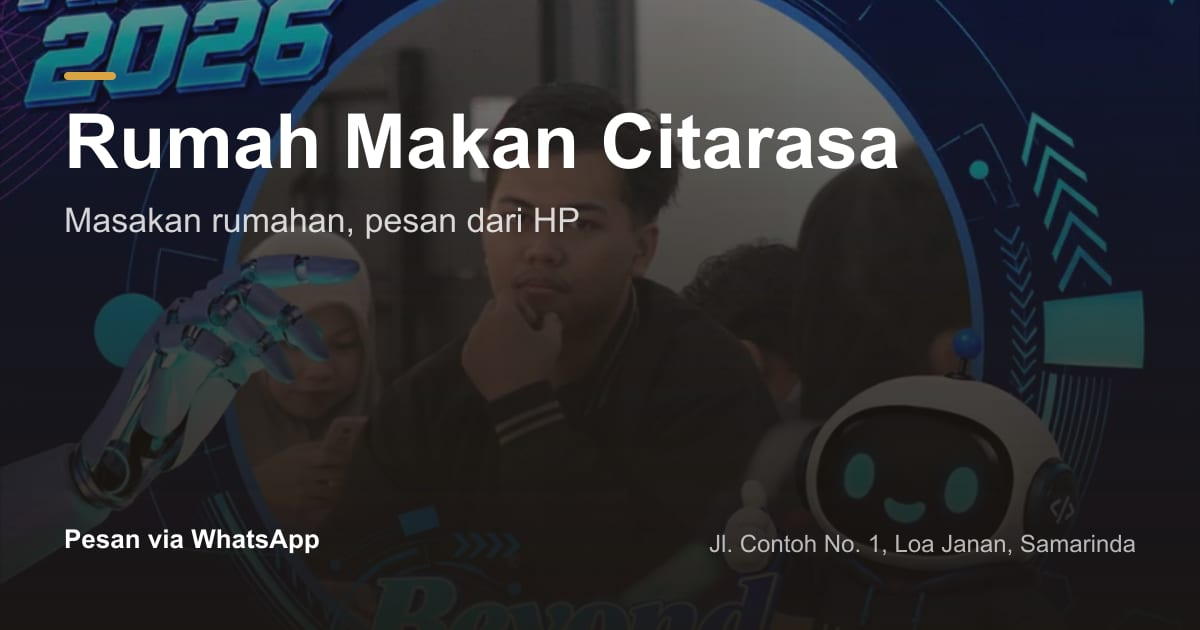
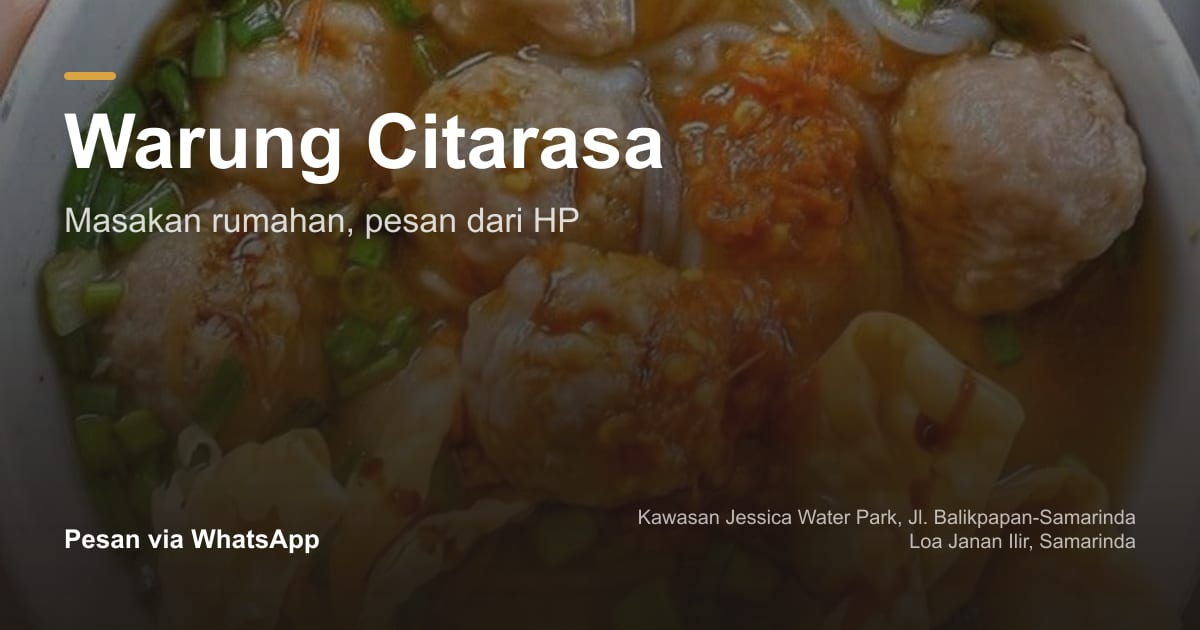
add lokasi page and polish catalog content

diff --git a/src/routes/lokasi/+page.svelte b/src/routes/lokasi/+page.svelte
@@ -1,0 +1,158 @@
+<script lang="ts">
+	import { onMount } from 'svelte';
+	import { config } from '$lib/config.js';
+	import { DAY_NAMES, formatHours, isOpenNow, zonedDayAndMinutes } from '$lib/format.js';
+	import { buildJsonLdScript } from '$lib/seo.js';
+
+	const jsonLd = buildJsonLdScript();
+	const title = `Lokasi — ${config.name}`;
+	const canonical = `${config.siteUrl}/lokasi`;
+	const waUrl = `https://wa.me/${config.whatsapp}`;
+	const fulfillment = [
+		config.fulfillment.dineIn ? 'Makan di tempat' : '',
+		config.fulfillment.pickup ? 'Ambil sendiri' : '',
+		config.fulfillment.delivery ? 'Antar' : ''
+	]
+		.filter(Boolean)
+		.join(' · ');
+
+	let openNow = $state<boolean | null>(null);
+	let today = $state<number | null>(null);
+
+	onMount(() => {
+		const update = () => {
+			openNow = isOpenNow();
+			today = zonedDayAndMinutes(config.timezone).day;
+		};
+
+		update();
+		const timer = setInterval(update, 60_000);
+		return () => clearInterval(timer);
+	});
+</script>
+
+<svelte:head>
+	<title>{title}</title>
+	<meta name="description" content={`Lokasi dan alamat ${config.name}. Lihat peta, jam buka, dan cara memesan.`} />
+	<link rel="canonical" href={canonical} />
+	<meta property="og:type" content="website" />
+	<meta property="og:locale" content="id_ID" />
+	<meta property="og:site_name" content={config.name} />
+	<meta property="og:title" content={title} />
+	<meta property="og:description" content={`Lokasi, alamat, dan jam buka ${config.name}.`} />
+	<meta property="og:url" content={canonical} />
+	<meta property="og:image" content={`${config.siteUrl}/og.jpg`} />
+	<meta name="twitter:card" content="summary_large_image" />
+	<meta name="twitter:title" content={title} />
+	<meta name="twitter:description" content={`Lokasi, alamat, dan jam buka ${config.name}.`} />
+	<meta name="twitter:image" content={`${config.siteUrl}/og.jpg`} />
+	<meta name="theme-color" content={config.brand.primary} />
+	{@html jsonLd}
+</svelte:head>
+
+<main>
+	<section class="border-b-2 border-ink bg-ink text-paper">
+		<div class="mx-auto max-w-6xl px-4 py-10 sm:py-14">
+			<p class="mono-label text-accent">LOKASI & ALAMAT</p>
+			<div class="mt-4 flex flex-col gap-6 sm:flex-row sm:items-end sm:justify-between">
+				<h1 class="font-display text-[clamp(4rem,10vw,8rem)] font-bold leading-[0.78] tracking-[-0.08em] text-paper">
+					Mampir.
+				</h1>
+				<div class="border-l-2 border-accent pl-4 text-sm text-paper/90 sm:max-w-xs">
+					<p class="font-display font-semibold text-paper">
+						{openNow === null ? 'Jam buka harian' : openNow ? 'Buka sekarang' : 'Sedang tutup'}
+					</p>
+					<p class="mt-1 font-mono text-xs text-paper/70">
+						{today === null ? '10.00–21.00' : `${DAY_NAMES[today]} · ${formatHours(config.hours[today])}`}
+					</p>
+				</div>
+			</div>
+			<p class="mt-7 max-w-2xl font-serif text-xl leading-relaxed text-paper/85">
+				Peta, alamat lengkap, dan jam buka. Kalau bingung arah, kirim pesan—kami bantu tunjukkan patokannya.
+			</p>
+		</div>
+	</section>
+
+	<section class="mx-auto grid max-w-6xl gap-10 px-4 py-10 lg:grid-cols-12 lg:gap-8 lg:py-14">
+		<div class="lg:col-span-7">
+			<div class="border-2 border-ink bg-paper-light p-2">
+				<iframe
+					src={config.mapEmbedUrl}
+					title={`Peta lokasi ${config.name}`}
+					class="h-[320px] w-full border border-ink/20 sm:h-[420px] lg:h-[460px]"
+					loading="lazy"
+					referrerpolicy="no-referrer-when-downgrade"
+					allowfullscreen
+				></iframe>
+			</div>
+			<div class="mt-4 flex flex-wrap items-start justify-between gap-3 border-t border-ink/25 pt-3">
+				<p class="font-mono text-[11px] leading-relaxed tracking-[0.08em] text-ink/55">PETA LOKASI · GOOGLE MAPS</p>
+				<a href={config.mapsUrl} target="_blank" rel="noopener noreferrer" class="text-link text-sm">
+					Buka di Google Maps
+				</a>
+			</div>
+		</div>
+
+		<div class="lg:col-span-5">
+			<div class="border-t-2 border-ink pt-5">
+				<p class="mono-label text-brand">DETAIL ALAMAT</p>
+				<h2 class="mt-3 font-display text-3xl font-bold leading-[0.92] tracking-[-0.055em] sm:text-4xl">
+					{config.name}
+				</h2>
+				<p class="mt-4 max-w-md font-serif text-xl leading-relaxed text-ink/80">{config.address}</p>
+				<p class="mt-3 max-w-md font-mono text-xs leading-relaxed text-ink/55">
+					Buka peta di samping untuk rute langsung dari lokasi kamu.
+				</p>
+				<a href={config.mapsUrl} target="_blank" rel="noopener noreferrer" class="print-button mt-6 w-full sm:w-auto">
+					Petunjuk arah
+				</a>
+			</div>
+
+			<dl class="mt-8 divide-y divide-ink/20 border-y border-ink/20 text-sm">
+				<div class="grid grid-cols-[7rem_1fr] gap-4 py-3">
+					<dt class="font-mono text-xs text-ink/55">CARA TERIMA</dt>
+					<dd class="font-medium">{fulfillment}</dd>
+				</div>
+				<div class="grid grid-cols-[7rem_1fr] gap-4 py-3">
+					<dt class="font-mono text-xs text-ink/55">PESAN</dt>
+					<dd>
+						<a href={waUrl} target="_blank" rel="noopener noreferrer" class="text-link">WhatsApp</a>
+					</dd>
+				</div>
+				{#if config.fulfillment.deliveryNote}
+					<div class="grid grid-cols-[7rem_1fr] gap-4 py-3">
+						<dt class="font-mono text-xs text-ink/55">ANTAR</dt>
+						<dd class="text-ink/70">{config.fulfillment.deliveryNote}</dd>
+					</div>
+				{/if}
+			</dl>
+
+			<div class="mt-8">
+				<div class="flex items-center justify-between gap-4 border-b-2 border-ink pb-3">
+					<p class="mono-label text-brand">JAM BUKA</p>
+					<span class="font-mono text-[10px] text-ink/50">WAKTU SETEMPAT</span>
+				</div>
+				<dl class="divide-y divide-ink/20">
+					{#each DAY_NAMES as dayName, index (dayName)}
+						<div class="flex items-center justify-between gap-4 py-2.5 {today === index ? 'font-semibold text-brand' : 'text-ink/75'}">
+							<dt class="font-display font-semibold">{dayName}</dt>
+							<dd class="font-mono text-sm tabular">{formatHours(config.hours[index])}</dd>
+						</div>
+					{/each}
+				</dl>
+			</div>
+		</div>
+	</section>
+
+	<section class="border-t-2 border-ink bg-paper-light px-4 py-12">
+		<div class="mx-auto flex max-w-6xl flex-col gap-6 sm:flex-row sm:items-end sm:justify-between">
+			<div>
+				<p class="mono-label text-brand">SUDAH TAHU LOKASINYA?</p>
+				<h2 class="mt-3 font-display text-[clamp(2.5rem,6vw,5rem)] font-bold leading-[0.86] tracking-[-0.07em]">
+					Langsung pilih menunya.
+				</h2>
+			</div>
+			<a href="/menu" class="print-button w-fit">Lihat menu</a>
+		</div>
+	</section>
+</main>

diff --git a/src/routes/+page.svelte b/src/routes/+page.svelte
@@ -56,10 +56,10 @@
 		<div class="mx-auto max-w-6xl">
 			<div class="grid grid-cols-1 items-start gap-12 lg:grid-cols-12 lg:gap-8">
 				<div class="min-w-0 lg:col-span-7 lg:pt-8">
-					<p class="mono-label text-brand">LOA JANAN, SAMARINDA · MASAK TIAP HARI</p>
+					<p class="mono-label text-brand">LOA JANAN ILIR, SAMARINDA</p>
 					<h1 class="mt-5 max-w-3xl break-words font-display text-[clamp(2.9rem,12vw,7.5rem)] font-bold leading-[0.82] tracking-[-0.075em]">
 						Rasa rumah,<br />
-						<span class="font-serif font-medium italic tracking-[-0.06em]">tanpa perlu<br class="sm:hidden" /> pulang.</span>
+						<span class="font-serif font-medium italic tracking-[-0.06em]">tanpa perlu<br class="sm:hidden" /> <span class="inline-block bg-brand px-[0.1em] text-paper">pulang.</span></span>
 					</h1>
 					<p class="mt-7 max-w-xl font-serif text-xl leading-[1.3] text-ink/75 sm:text-2xl">
 						Bakso, mie ayam, soto, dan camilan dari dapur kami. Pilih menu, tulis pesanan, lalu kirim langsung ke WhatsApp.
@@ -70,22 +70,24 @@
 					</div>
 				</div>
 
-				<div class="relative mx-auto w-full max-w-md lg:col-span-5 lg:mt-0 lg:max-w-none">
-					<div class="absolute inset-x-4 bottom-[-14px] top-5 bg-brand"></div>
-					<a href="/menu" class="relative block border border-ink bg-paper" aria-label="Lihat menu">
-						<img
-							src="/landing.jpg"
-							alt="Pilihan hidangan Rumah Makan Citarasa"
-							width="720"
-							height="1280"
-							fetchpriority="high"
-							class="aspect-[4/5] w-full object-cover"
-						/>
-					</a>
-					<div class="relative mt-4 flex items-start gap-3 border-t border-ink pt-3">
+				<div class="mx-auto w-full max-w-md lg:col-span-5 lg:mt-0 lg:max-w-none">
+					<div class="relative">
+						<div class="absolute inset-x-4 bottom-[-14px] top-5 bg-brand"></div>
+						<a href="/menu" class="relative block border border-ink bg-paper" aria-label="Lihat menu">
+							<img
+								src="/landing.jpg"
+								alt="Pilihan hidangan Warung Citarasa"
+								width="720"
+								height="1280"
+								fetchpriority="high"
+								class="aspect-[4/5] w-full object-cover"
+							/>
+						</a>
+					</div>
+					<div class="relative mt-5 flex items-start gap-3 border-t border-ink pt-3">
 						<span class="font-mono text-sm text-brand">01</span>
 						<p class="font-serif text-base leading-snug">
-							<strong class="font-display">Rumah Makan Citarasa.</strong> Dari dapur, langsung ke meja makanmu.
+							<strong class="font-display">Warung Citarasa.</strong> Dari dapur, langsung ke meja makanmu.
 						</p>
 					</div>
 				</div>
@@ -119,7 +121,7 @@
 			<p class="mt-5 max-w-5xl font-serif text-[clamp(2.2rem,5.2vw,5rem)] leading-[0.95] tracking-[-0.045em]">
 				“Tidak ada resep rahasia. Yang kami jaga cuma api, kaldu, dan jam buka.”
 			</p>
-			<p class="mt-7 font-display text-sm font-semibold">Warung Contoh Rasa</p>
+			<p class="mt-7 font-display text-sm font-semibold">Warung Citarasa</p>
 		</div>
 	</section>
 
@@ -128,7 +130,7 @@
 			<div class="lg:col-span-4">
 				<p class="mono-label text-brand">YANG KAMI JAGA</p>
 				<h2 class="mt-4 max-w-sm font-display text-[clamp(2.5rem,4.5vw,4.5rem)] font-bold leading-[0.9] tracking-[-0.065em]">
-					Makan enak, tanpa banyak gaya.
+					Makan enak, tanpa banyak <span class="inline-block bg-brand px-[0.08em] text-paper">gaya.</span>
 				</h2>
 			</div>
 

diff --git a/src/routes/menu/+page.svelte b/src/routes/menu/+page.svelte
@@ -90,10 +90,10 @@
 <main class="pb-28 lg:pb-16">
 	<section class="relative overflow-hidden border-b-2 border-ink bg-ink text-paper">
 		<img
-			src="/banner.jpg"
+			src="/banner.webp"
 			alt=""
-			width="1200"
-			height="630"
+			width="1920"
+			height="1280"
 			fetchpriority="high"
 			class="absolute inset-0 h-full w-full object-cover object-center-right opacity-90"
 		/>
@@ -136,7 +136,7 @@
 				{/if}
 			</div>
 
-			<div class="-mx-4 mt-4 overflow-x-auto px-4 [scrollbar-width:none]">
+			<div class="-mx-4 mt-4 overflow-x-auto px-4 scrollbar-none">
 				<div class="flex min-w-max items-center gap-x-5 text-sm sm:gap-x-7" role="group" aria-label="Filter kategori">
 					{#each [ALL_CATEGORY, ...categories] as category (category)}
 						<button
@@ -204,7 +204,7 @@
 				</div>
 			{:else}
 				<div class="border-y-2 border-ink py-12">
-					<p class="font-display text-3xl font-bold tracking-[-0.05em]">Belum ketemu.</p>
+					<p class="font-display text-3xl font-bold tracking">Belum ketemu.</p>
 					<p class="mt-3 max-w-md font-serif text-lg leading-relaxed text-ink/70">Tidak ada menu untuk “{query}”. Coba nama makanan lain atau pilih kategori berbeda.</p>
 					<button type="button" class="text-link mt-5 text-sm" onclick={() => { query = ''; activeCategory = ALL_CATEGORY; }}>Tampilkan semua menu</button>
 				</div>

diff --git a/src/lib/config.ts b/src/lib/config.ts
@@ -38,6 +38,7 @@ export type BusinessConfig = {
 	whatsapp: string;
 	address: string;
 	mapsUrl: string;
+	mapEmbedUrl: string;
 	timezone: string;
 	hours: Record<number, DayHours>;
 	fulfillment: FulfillmentConfig;
@@ -53,13 +54,14 @@ export type BusinessConfig = {
 };
 
 export const config: BusinessConfig = {
-	name: 'Rumah Makan Citarasa',
+	name: 'Warung Citarasa',
 	tagline: 'Masakan rumahan, pesan dari HP',
 	description:
-		'Bakso, mie ayam, soto, dan camilan rumahan di Loa Janan, Samarinda. Pilih menu, pesan langsung lewat WhatsApp.',
-	whatsapp: '6281234567890',
-	address: 'Jl. Contoh No. 1, Loa Janan, Samarinda',
-	mapsUrl: 'https://maps.google.com/?q=Warung+Contoh+Rasa+Loa+Janan+Samarinda',
+		'Bakso, mie ayam, soto, dan camilan rumahan di Loa Janan Ilir, Samarinda. Pilih menu, pesan langsung lewat WhatsApp.',
+	whatsapp: '6285753421213',
+	address: 'Kawasan Jessica Water Park, Jl. Balikpapan-Samarinda, Loa Janan Ilir, Samarinda',
+	mapsUrl: 'https://maps.google.com/?q=Jessica+Water+Park+Samarinda',
+	mapEmbedUrl: 'https://www.google.com/maps?q=Jessica+Water+Park+Samarinda&z=16&output=embed',
 	timezone: 'Asia/Makassar',
 	hours: {
 		0: ['10:00', '21:00'],

diff --git a/tests/whatsapp.test.ts b/tests/whatsapp.test.ts
@@ -125,9 +125,9 @@ describe('buildOrderMessage', () => {
 describe('buildWaUrl', () => {
 	it('meng-encode karakter spesial dan baris baru', () => {
 		const message = 'Halo & pesan #1 🍜\nBaris dua';
-		const url = buildWaUrl('+62 812-3456-7890', message);
+		const url = buildWaUrl('+62 857-5342-1213', message);
 
-		expect(url.startsWith('https://wa.me/6281234567890?text=')).toBe(true);
+		expect(url.startsWith('https://wa.me/6285753421213?text=')).toBe(true);
 		expect(url).toContain('%26');
 		expect(url).toContain('%23');
 		expect(url).toContain('%F0%9F%8D%9C');
@@ -146,7 +146,7 @@ describe('buildWaUrl', () => {
 		const message = buildOrderMessage({
 			lines: longLines,
 			customerName: 'Budi',
-			fulfillment: { mode: 'delivery', address: 'Jl. Contoh No. 1, Loa Janan, Samarinda' }
+			fulfillment: { mode: 'delivery', address: config.address }
 		});
 		const url = buildWaUrl(config.whatsapp, message);
 

diff --git a/src/lib/components/SiteFooter.svelte b/src/lib/components/SiteFooter.svelte
@@ -29,7 +29,7 @@
 			<div>
 				<p class="mono-label text-ink/55">JAM HARI INI</p>
 				<p class="mt-2 font-mono text-sm">{DAY_NAMES[today]} · {formatHours(config.hours[today])}</p>
-				<a href="/#kunjungi" class="text-link mt-3 inline-block">Lihat jam lengkap</a>
+				<a href="/lokasi" class="text-link mt-3 inline-block">Lihat jam lengkap</a>
 			</div>
 
 			<div>

diff --git a/src/lib/components/SiteHeader.svelte b/src/lib/components/SiteHeader.svelte
@@ -5,7 +5,7 @@
 	const navItems = [
 		{ href: '/', label: 'Beranda' },
 		{ href: '/menu', label: 'Menu' },
-		{ href: '/#kunjungi', label: 'Kunjungi' }
+		{ href: '/lokasi', label: 'Kunjungi' }
 	];
 </script>
 

diff --git a/README.md b/README.md
@@ -11,6 +11,8 @@ src/
     +layout.svelte      # Header + footer global
     menu/
       +page.svelte      # Halaman katalog sendiri + nota pesanan
+    lokasi/
+      +page.svelte      # Peta Google Maps + detail alamat dan jam buka
   lib/
     config.ts           # Satu-satunya sumber data klien (nama, WA, jam, warna, dll.)
     data/products.json  # Data produk dummy
@@ -22,9 +24,8 @@ src/
     components/         # SiteHeader, SiteFooter, MenuRow, ProductSheet, CartDrawer, StoreInfo
   app.css               # Design system (warna, font, tekstur, komponen dasar)
 static/
-  landing.jpg, banner.jpg, og.jpg, favicon.svg, products/*.jpg
+  landing.jpg, banner.webp, og.jpg, favicon.svg, products/*
 scripts/
-  optimize-images.mjs   # resize + kompres foto produk
   make-og.mjs           # generate og.jpg
 ```
 
@@ -45,15 +46,14 @@ Edit satu file: `src/lib/config.ts` (nama, tagline, WA, alamat, jam buka, warna 
 
 ## Ganti foto
 
-1. Taruh foto asli di `raw-images/` (nama bebas).
-2. Jalankan `npm run images` → foto produk dikompres ke `static/products/`.
-3. Update `image` di `src/lib/data/products.json` agar path cocok.
-4. Ganti `static/landing.jpg` (hero landing) dan `static/banner.jpg` (atas `/menu`).
-5. Jalankan `npm run og` → regenerasi `static/og.jpg` untuk preview media sosial.
+1. Simpan foto produk langsung di `static/products/` (disarankan .webp, lebar maks. 800px).
+2. Update `image` di `src/lib/data/products.json` agar path cocok (contoh `/products/nama-file.webp`).
+3. Ganti `static/landing.jpg` (hero landing) dan `static/banner.webp` (atas `/menu`).
+4. Jalankan `npm run og` → regenerasi `static/og.jpg` untuk preview media sosial.
 
 ## Tambah / ubah produk
 
-Edit `src/lib/data/products.json`. Setiap produk butuh `id`, `name`, `category`, `price` (boleh `null` untuk "tanya harga"), `unit`, `description`. Opsional: `image`, `variants[]`, `stock` (`habis` / `terbatas`), `popular`.
+Edit `src/lib/data/products.json` dan taruh gambarnya langsung di `static/products/`. Setiap produk butuh `id`, `name`, `category`, `price` (boleh `null` untuk "tanya harga"), `unit`, `description`. Opsional: `image`, `variants[]`, `stock` (`habis` / `terbatas`), `popular`.
 
 ## Preset usaha lain
 
